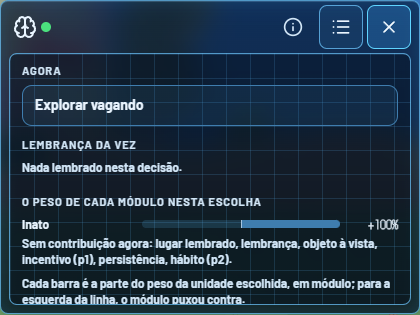
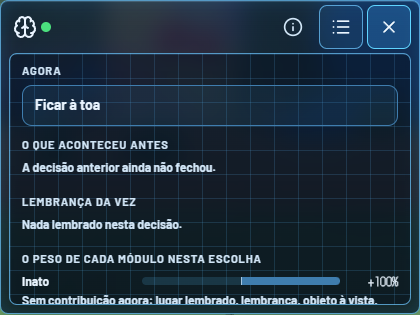
CADEIA etapa 3: o painel do modular mostra o resultado da decisao anterior (o que fez, o que aconteceu, o corpo e o que ficou nele)

diff --git a/web/app/src/componentes/DigiBrainLab.tsx b/web/app/src/componentes/DigiBrainLab.tsx
@@ -2,8 +2,9 @@
    useJogo(): todo numero sai de `Motor.leituraLab()` (motor/digibrain/leitura.ts, o ultimo motivo do M-ADAPT em inteiros) e do historico; a
    tela so escolhe o texto e formata. Nenhum rotulo diz "pensando", "sentindo" ou "querendo": dizem o modulo ou o que o motivo guarda. O painel
    do A v11 (DigiBrain.tsx) segue igual para os pets v11. */
-import { NOME_PET, ORDEM_TERMOS, type AcaoPet, type ConceitosDec, type LeituraLab, type NomeConceito, type TermoLab } from "../../motor/index.ts";
+import { NOME_PET, ORDEM_TERMOS, type AcaoPet, type ConceitosDec, type LeituraLab, type NomeConceito, type ResultadoLab, type TermoLab } from "../../motor/index.ts";
 import { CONFIG_DECODIFICADOR } from "../../motor/digibrain/constantes.ts";
+import { resultadoAnterior } from "../../motor/index.ts";
 import { useJogo } from "../jogo.ts";
 import { hhmm } from "../telas/pet/TelaPet.tsx";
 import "../estilo/lab.css";
@@ -19,6 +20,18 @@ const ACAO_INF: Record<string, string> = {
   ocioso: "ficar à toa", dormir: "dormir", comer: "comer", brincar: "brincar", chamar_atencao: "chamar você", explorar: "explorar", emburrar: "emburrar",
 };
 const maiuscula = (t: string): string => t.charAt(0).toUpperCase() + t.slice(1);
+
+/** o resultado da decisao anterior numa linha (CADEIA, etapa 3): o que ele fez, o que aconteceu, o corpo e o que ficou nele. Nenhum "pensou" */
+export function textoResultado(r: ResultadoLab): string {
+  const partes: string[] = [maiuscula(rotuloUnidade(r.escolha))];
+  if (r.comeu) partes.push(`comeu ${r.comeu.tipo === "racao" ? "ração" : "uma fruta"}${r.comeu.situacao === "podre" ? " podre" : ""}`);
+  else if (r.chegou === true) partes.push(r.escolha[1] === "ponto" ? "chegou e não havia comida" : "chegou");
+  else if (r.chegou === false) partes.push("não chegou");
+  if (r.efeito !== "igual") partes.push(r.efeito === "melhorou" ? "o corpo melhorou" : "o corpo piorou");
+  if (r.memoria) partes.push(r.memoria === "consumo" ? "o lugar ficou na memória" : "a visita vazia ficou na memória");
+  if (r.aprendeu) partes.push("o hábito aprendeu");
+  return partes.join("; ") + ".";
+}
 
 /** o rotulo de uma unidade, da chave [acao, tipo, id]: o que o motivo guarda, sem inventar nome de lugar (LM5-4) */
 export function rotuloUnidade(chave: readonly [string, string | null, unknown]): string {
@@ -73,7 +86,7 @@ function Barras({ l }: { l: LeituraLab }) {
 
 /** o conteudo do painel do modular, o mesmo no desktop (coluna) e no celular (folha) */
 export function ConteudoDigiBrainLab() {
-  const { motor: m } = useJogo(), l = m.leituraLab(), conc = m.conceitosDec();
+  const { motor: m } = useJogo(), l = m.leituraLab(), conc = m.conceitosDec(), res = m.lab ? resultadoAnterior(m.lab) : null;
   const ultimas = m.historico.filter(h => h.quem === "pet").slice(-5).reverse();
   if (l === null) return <div className="db-conteudo"><p className="db-vazio">Ainda não decidiu nada.</p></div>;
   const peso = l.barras.find(b => b.termo === "lembranca");
@@ -86,6 +99,11 @@ export function ConteudoDigiBrainLab() {
           {l.sem_lugar && <small>Sem o lugar lembrado, teria escolhido: {rotuloUnidade(l.sem_lugar).toLowerCase()}.</small>}
           {l.reflexo && <small>Reflexo do sono: sem sorteio.</small>}
           {l.nada_a_fazer && <small>Nenhuma opção com peso: nada a fazer.</small>}</div>
+      </section>
+      <section aria-labelledby="dl-res">
+        <h3 className="db-sec" id="dl-res">O que aconteceu antes</h3>
+        {res ? <p className="db-resultado" data-testid="resultado-anterior" data-k={res.k}>{textoResultado(res)}</p>
+          : <p className="db-vazio">A decisão anterior ainda não fechou.</p>}
       </section>
       <section aria-labelledby="dl-lemb">
         <h3 className="db-sec" id="dl-lemb">Lembrança da vez</h3>

diff --git a/web/app/test/resultado_lab.test.ts b/web/app/test/resultado_lab.test.ts
@@ -1,0 +1,56 @@
+/* O resultado da decisao anterior no painel do modular (CADEIA, etapa 3, PR-C da auditoria): `resultadoAnterior` le o `consequencia` que o M-ADAPT
+   grava no motivo ao fechar, e `textoResultado` o diz numa linha. No cenario do lugar lembrado (o mesmo de cenario_lugar_lembrado.test.ts), o
+   treino tem um resultado "comeu racao; o lugar ficou na memoria", e a fome sem comida tem "chegou e nao havia comida; a visita vazia ficou na
+   memoria". So leitura: a assinatura nao muda. */
+import { describe, expect, test } from "vitest";
+import { Motor } from "../motor/motor.ts";
+import { TPD } from "../motor/constantes.ts";
+import { resultadoAnterior, type ResultadoLab } from "../motor/index.ts";
+import { textoResultado } from "../src/componentes/DigiBrainLab.tsx";
+
+const P: readonly [number, number] = [168, 248];
+
+describe("o resultado da decisao anterior", () => {
+  test("no cenario do lugar lembrado: o consumo no treino e a visita vazia depois, cada um com o que ficou na memoria", () => {
+    const m = new Motor(101);
+    m.trocarCerebro("modular");
+    const vistos: ResultadoLab[] = [];
+    for (let p = 0; p < Math.round(2 * TPD / 30); p++) {
+      m.avancar(30);
+      if (m.e.fome < .6 && m.mundo!.comidas.size === 0) m.deixarComida("racao", P[0], P[1]);
+      if (m.e.sujeira >= 2) m.observar("limpar");
+      const r = resultadoAnterior(m.lab!); if (r) vistos.push(r);
+    }
+    const assinatura = m.assinatura();
+    for (let i = 0; i < 200; i++) { m.avancar(15); const r = resultadoAnterior(m.lab!); if (r) vistos.push(r); }
+    const consumo = vistos.find(r => r.memoria === "consumo"), visita = vistos.find(r => r.memoria === "visita");
+    expect(consumo, "um resultado de consumo no treino").toBeDefined();
+    expect(consumo!.comeu?.tipo).toBe("racao");
+    expect(textoResultado(consumo!)).toMatch(/comeu ração; .*o lugar ficou na memória/);
+    expect(visita, "um resultado de visita vazia na fome sem comida").toBeDefined();
+    expect(visita!.escolha[1]).toBe("ponto");
+    expect(visita!.chegou).toBe(true);
+    expect(textoResultado(visita!)).toMatch(/chegou e não havia comida; .*a visita vazia ficou na memória/);
+    /* so leitura: ler o resultado nao muda a vida */
+    const outra = new Motor(101);
+    outra.trocarCerebro("modular");
+    for (let p = 0; p < Math.round(2 * TPD / 30); p++) {
+      outra.avancar(30);
+      if (outra.e.fome < .6 && outra.mundo!.comidas.size === 0) outra.deixarComida("racao", P[0], P[1]);
+      if (outra.e.sujeira >= 2) outra.observar("limpar");
+    }
+    expect(outra.assinatura()).toBe(assinatura);
+  });
+  test("o texto de cada caso", () => {
+    const base: ResultadoLab = { k: 3, escolha: ["comer", "comida", 7], comeu: null, chegou: null, efeito: "igual", memoria: null, aprendeu: false };
+    expect(textoResultado({ ...base, comeu: { tipo: "a", situacao: "podre" }, efeito: "piorou", aprendeu: true }))
+      .toBe("Comer a comida à vista; comeu uma fruta podre; o corpo piorou; o hábito aprendeu.");
+    expect(textoResultado({ ...base, escolha: ["explorar", "vagar", null], chegou: false })).toBe("Explorar vagando; não chegou.");
+    expect(textoResultado({ ...base, escolha: ["dormir", null, null] })).toBe("Dormir.");
+  });
+  test("antes de duas decisoes, nada", () => {
+    const m = new Motor(101);
+    m.trocarCerebro("modular");
+    expect(resultadoAnterior(m.lab!)).toBeNull();
+  });
+});

diff --git a/web/app/motor/digibrain/leitura.ts b/web/app/motor/digibrain/leitura.ts
@@ -16,6 +16,16 @@ export interface BarraLab { termo: TermoLab; valor: number; permil: number }
 export interface ChanceLab { chave: ChaveUnidade; acao: string; permil: number | null; escolhida: boolean }
 /** uma sonda de "o que mudaria a escolha": a unidade que o motivo daria sem aquele termo e se a escolha mudaria */
 export interface SondaLab { nome: string; chave: ChaveUnidade | null; mudaria: boolean }
+/** o resultado da decisao anterior (CADEIA, etapa 3, PR-C da auditoria; o `consequencia` que o M-ADAPT grava no motivo dela ao fechar):
+    o que ele escolheu, se comeu (o tipo e a situacao), se chegou ao alvo, o efeito no corpo (o sinal do r normalizado), o que ficou na memoria
+    (o episodio de consumo ou o da visita vazia) e se o habito recebeu credito. So le o motivo */
+export interface ResultadoLab {
+  k: number; escolha: ChaveUnidade;
+  comeu: { tipo: string; situacao: string } | null; chegou: boolean | null;
+  efeito: "melhorou" | "piorou" | "igual";
+  memoria: "consumo" | "visita" | null;
+  aprendeu: boolean;
+}
 export interface LeituraLab {
   /** o numero da decisao (`motivo.k`) */
   k: number;
@@ -51,6 +61,24 @@ function valorTermo(termos: Dict, t: TermoLab): number {
 const mesmaChave = (a: ChaveUnidade | null, b: ChaveUnidade | null): boolean => JSON.stringify(a) === JSON.stringify(b);
 
 /** a leitura do ultimo motivo do DigiBrain modular; null antes da primeira decisao */
+/** o resultado da decisao anterior a ultima (a ultima ainda nao fechou); null sem ela ou antes de ela fechar */
+export function resultadoAnterior(lab: DigiBrain): ResultadoLab | null {
+  const n = lab.motivos.length;
+  if (n < 2) return null;
+  const m: Dict = lab.motivos[n - 2]!, c: Dict | null = m["consequencia"] ?? null;
+  if (c === null) return null;
+  for (const k of ["r_n", "chegou", "comeu", "episodio", "creditos", "p1"]) if (!(k in c)) throw new Error(`o consequencia do motivo ${m["k"]} sem ${k}`);
+  const comeu: Dict | null = c["comeu"];
+  return {
+    k: m["k"], escolha: m["escolha"] as ChaveUnidade,
+    comeu: comeu === null ? null : { tipo: comeu["tipo"], situacao: comeu["situacao"] },
+    chegou: c["chegou"],
+    efeito: c["r_n"] > 0 ? "melhorou" : c["r_n"] < 0 ? "piorou" : "igual",
+    memoria: c["episodio"] === null ? null : comeu !== null ? "consumo" : "visita",
+    aprendeu: (c["creditos"] as unknown[]).length > 0 || c["p1"] !== null,
+  };
+}
+
 export function leituraLab(lab: DigiBrain): LeituraLab | null {
   const m: Dict | null = lab.ultimoMotivo;
   if (m === null) return null;

diff --git a/web/app/src/componentes/ScanDigiBrainLab.tsx b/web/app/src/componentes/ScanDigiBrainLab.tsx
@@ -14,7 +14,8 @@ import { Brain, Info, List, X } from "lucide-react";
 import { ORDEM_TERMOS, type LeituraLab, type TermoLab } from "../../motor/index.ts";
 import { useJogo } from "../jogo.ts";
 import "../estilo/scan_digibrain.css";
-import { ConteudoDigiBrainLab, NOME_TERMO, rotuloUnidade } from "./DigiBrainLab.tsx";
+import { ConteudoDigiBrainLab, NOME_TERMO, rotuloUnidade, textoResultado } from "./DigiBrainLab.tsx";
+import { resultadoAnterior } from "../../motor/index.ts";
 import { abrirModal } from "./modal.ts";
 import {
   CEREBELO, DIVISAS, GIRO_CICLO_S, GIRO_GRAUS, PULSO_MS, SILHUETA, SeloForma, VARREDURA_MS, VB, Y_REGIOES, useDecisaoNova, useEscalaDoMapa,
@@ -127,7 +128,7 @@ function DicaLab({ aberta }: { aberta: boolean }) {
 export function ScanDigiBrainLab({ fechar, movel, replay = false, chamado }: { fechar: () => void; movel: boolean; replay?: boolean; chamado?: ReactNode }) {
   const { motor: m } = useJogo();
   if (!m.lab) throw new Error("o scan do modular so abre no pet do laboratorio (v16)");
-  const l = m.leituraLab();
+  const l = m.leituraLab(), res = resultadoAnterior(m.lab);
   const ref = useRef<HTMLDialogElement>(null), saindo = useRef(false);
   const giro = useRef<HTMLDivElement>(null), [verTexto, setVerTexto] = useState(false), [verDica, setVerDica] = useState(false);
   useEscalaDoMapa(giro, l !== null && !verTexto);
@@ -166,6 +167,8 @@ export function ScanDigiBrainLab({ fechar, movel, replay = false, chamado }: { f
               <div className="scan-giro" ref={giro}><MapaLab l={l} movel={movel} movendo={mov !== null} /></div>
             </>}
         </div>
+        {/* o resultado da decisao anterior numa linha (CADEIA, etapa 3): o que ele fez e o que mudou nele */}
+        {res && !verTexto && <p className="scan-resultado" data-testid="resultado-anterior" data-k={res.k}>{textoResultado(res)}</p>}
       </div>
       {chamado}
     </dialog>

diff --git a/web/app/motor/index.ts b/web/app/motor/index.ts
@@ -35,7 +35,7 @@ export * from "./digibrain.ts";
 export * from "./pet_lab.ts";
 export { decodificar, decodificarV2, episodioDec, desfechoDoEpisodio, CATALOGO_CONCEITOS, CLASSES_EPISODIO_DEC, DESFECHOS, VERSAO_DECODIFICADOR, VERSAO_DECODIFICADOR_V2, type Conceito, type ConceitosDec, type EpisodioDec, type NomeConceito } from "./digibrain/decodificador.ts";
 export { CONTEUDOS_FALA, type ConteudoFala } from "./digibrain/constantes.ts";
-export { ORDEM_TERMOS, type BarraLab, type ChanceLab, type LeituraLab, type SondaLab, type TermoLab } from "./digibrain/leitura.ts";
+export { ORDEM_TERMOS, resultadoAnterior, type BarraLab, type ChanceLab, type LeituraLab, type ResultadoLab, type SondaLab, type TermoLab } from "./digibrain/leitura.ts";
 /* a luta da POC (LUTA_POC, LP2): o mapeamento dos stats e os rivais; do nucleo, so a chave, os mapas e a tabela (os outros nomes dele, como
    Stats e ResultadoLuta, sao de motor/arena/ e colidiriam com os do motor) */
 export * from "./luta_poc.ts";

diff --git a/web/app/e2e/lab_modular.spec.ts b/web/app/e2e/lab_modular.spec.ts
@@ -62,6 +62,7 @@ test("o laboratorio: chocar, abrir, ver o motivo, descartar com confirmacao", as
   if (captura) await painel.locator(".scan-in").screenshot({ path: `${captura}/scan_lab_mapa_${page.viewportSize()!.width}.png` });
   await painel.getByRole("button", { name: "O mapa em texto" }).click();
   await expect(painel.getByRole("heading", { name: "O peso de cada módulo nesta escolha" })).toBeVisible();
+  await expect(painel.getByRole("heading", { name: "O que aconteceu antes" })).toBeVisible();
   if (captura) await painel.locator(".scan-in").screenshot({ path: `${captura}/scan_lab_texto_${page.viewportSize()!.width}.png` });
   await expect(painel.getByRole("heading", { name: "Lembrança da vez" })).toBeVisible();
   await expect(painel.getByRole("heading", { name: "Intenção em curso" })).toBeVisible();

diff --git a/web/app/src/estilo/scan_digibrain.css b/web/app/src/estilo/scan_digibrain.css
@@ -167,3 +167,6 @@
 /* o mapa em texto do modular (ScanDigiBrainLab): os tokens escuros dos paineis (painel-hx.css) sem o fundo, a margem e a letra deles, que sao da
    folha do painel; aqui fica o vidro do scan e a letra do mapa em texto do A */
 .scan.scan--lab .scan-texto{ background:none; padding:10px 12px; font-size:14px }
+
+/* o resultado da decisao anterior sob o mapa do modular (CADEIA, etapa 3): uma linha curta, no texto secundario da pele */
+.scan.scan--lab .scan-resultado{ margin:6px 4px 0; font:500 13px/1.3 var(--hx-f); color:var(--hx-texto-2) }

diff --git a/docs/registro/2026-11.md b/docs/registro/2026-11.md
@@ -5332,3 +5332,23 @@ Só vista: o motor, o log, o save e o replay não mudam.
   - Os pets sem o mapa físico seguem com a cena de antes. Uma célula é PROPOSTO, SEM FONTE.
 - **D-CADEIA-6, o lugar vazio (D6):** quando a memória do modular grava uma visita "nao_havia" nova (o id do episódio sobe), o pet fica
   Triste por 2 s. Só os 8 Digimon do estágio criança têm esse rosto, e nas outras formas nada muda. Os 2 s são PROPOSTOS, SEM FONTE.
+
+## 2026-11-11 — CADEIA, etapa 3: o painel mostra o resultado da decisão anterior (Gerente da V3, Claude Code, Opus 5.5, branch `v3-cadeia-f3`)
+
+Só leitura: o cérebro, a rng e o replay não mudam.
+
+- **D-CADEIA-7, o resultado da decisão anterior.** `resultadoAnterior` (`web/app/motor/digibrain/leitura.ts`) lê o `consequencia` que o
+  M-ADAPT grava no motivo ao fechar a decisão. Traz:
+  - o que ele escolheu;
+  - se comeu (o tipo e a situação) ou se chegou;
+  - o corpo: melhorou, piorou ou ficou igual, pelo sinal do `r_n`;
+  - o que ficou na memória: o consumo ou a visita vazia;
+  - se o hábito recebeu crédito: algum crédito do P2 ou o registro do P1.
+  - É a decisão anterior à última, porque a última ainda não fechou.
+- **D-CADEIA-8, onde aparece:**
+  - numa linha sob o mapa do scan do modular;
+  - numa seção "O que aconteceu antes" no mapa em texto.
+  - O texto diz o que aconteceu, nunca "pensou" ou "quis".
+- **D-CADEIA-9, achado: no e2e do laboratório, o relógio do pet de teste não anda.** O tick fica em 481 com o painel aberto e fechado. O e2e
+  só confere que a seção existe; o resultado de verdade fica coberto pelo teste de unidade no motor (`test/resultado_lab.test.ts`). Não foi
+  investigado se, no jogo, o pet de teste também fica parado.

diff --git a/docs/TAREFA_V3_CADEIA.md b/docs/TAREFA_V3_CADEIA.md
@@ -85,3 +85,16 @@ Branch `v3-cadeia-f2`, sobre a etapa 1. Só vista.
   - os e2e do comer e da cena seguem passando.
 - **Desvios:** D-CADEIA-5 e 6.
 
+## 11. Etapa 3 (2026-11-11): o painel mostra o resultado da decisão anterior
+
+Branch `v3-cadeia-f3`, sobre a etapa 2. Só leitura.
+
+- **`resultadoAnterior`** (`motor/digibrain/leitura.ts`): o `consequencia` do motivo anterior.
+- **`textoResultado`** (`src/componentes/DigiBrainLab.tsx`): uma linha, por exemplo "Explorar o lugar lembrado (183, 249); chegou e não havia
+  comida; a visita vazia ficou na memória".
+- **Onde aparece:** sob o mapa do scan do modular e na seção "O que aconteceu antes" do mapa em texto.
+- **Testes:**
+  - `test/resultado_lab.test.ts` (3): o consumo e a visita vazia no cenário do lugar lembrado, o texto de cada caso e "só leitura";
+  - o e2e do laboratório confere a seção.
+- **Desvios:** D-CADEIA-7 a 9.
+

diff --git a/docs/REGISTRO_DESVIOS.md b/docs/REGISTRO_DESVIOS.md
@@ -659,3 +659,4 @@ de base em `docs/historico/registro_lotes.json`.
 - [2026-11-11 — HABITAT_REACOES, HR1: as reações que faltavam na vista (Gerente da V3, Claude Code, Opus 5.5, branch `v3-habitat-hr1`)](registro/2026-11.md)
 - [2026-11-11 — CADEIA, etapa 1: o cenário do lugar lembrado e as decisões D2, D4 e D5 (Gerente da V3, Claude Code, Opus 5.5, branch `v3-cadeia-f1`)](registro/2026-11.md)
 - [2026-11-11 — CADEIA, etapa 2: a cena só mastiga com o que comer e o lugar vazio no rosto (Gerente da V3, Claude Code, Opus 5.5, branch `v3-cadeia-f2`)](registro/2026-11.md)
+- [2026-11-11 — CADEIA, etapa 3: o painel mostra o resultado da decisão anterior (Gerente da V3, Claude Code, Opus 5.5, branch `v3-cadeia-f3`)](registro/2026-11.md)
